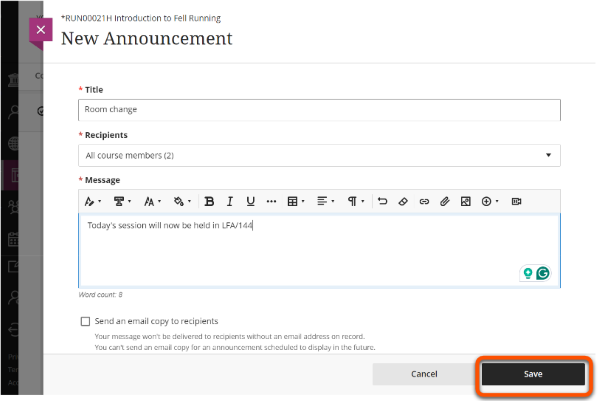
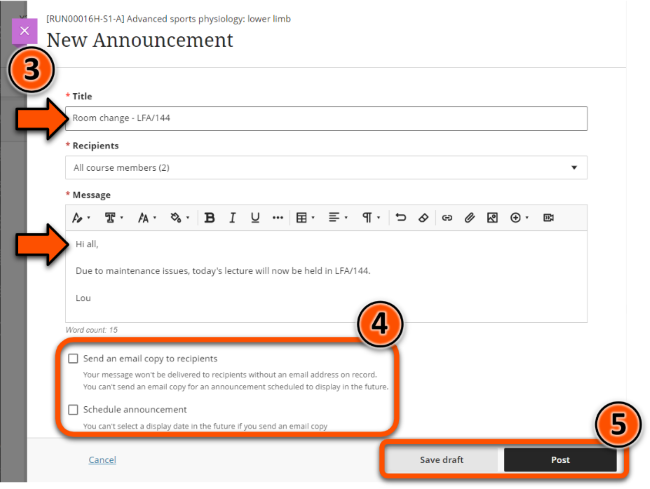
Announcements update for 93 update

Changed region(s): [[0.0, 0.0, 1.0, 1.0], [0.84, 0.419, 0.87, 0.4489]]

diff --git a/docs/ultra/announcements.md b/docs/ultra/announcements.md
@@ -44,35 +44,17 @@ Announcements are sent to all enrolled users (including staff). To send targeted
 2. At the **top right corner** of the Course Announcement page, click the **plus icon** to create an announcement.
 <br> ![Decorative](images/announcement-plus.png)
 3. On the **New Announcement** page, enter a descriptive title and the message text of your announcement. You can use the toolbar to format text, embed multimedia, and attach files (but remember that any module content included must also be added to the site itself).
-<br> ![Decorative](images/announcement-edit.png)
-4. To display an announcement at specific times, click **Schedule Announcement** then set Show on/Hide on dates.
-<br> ![Schedule announcement](images/announcement-schedule.png "Schedule")  
-5. You can use **Send an email copy to recipients** for critical announcements (e.g. changes of exam schedule). Students will receive emails at the address associated with their VLE account, even if they don’t log into the course. See [What emails do announcements generate?](../ultra/announcements.md/#what-emails-do-announcements-generate) below for more details.
-<br> ![Decorative](images/announcement-send-email.png)
-
-    !!! Tip
-
-        It is not currently possible to send an email copy of scheduled announcements.
-
-6. Click **Save**. Your announcement is saved as a draft on your Course Announcements page.
+4. Optional features: **Send an email copy** (See [What emails do announcements generate?](../ultra/announcements.md/#what-emails-do-announcements-generate) below for more details), or **Schedule annoucement** to automatically post later. [Note: a future update will allow both options to be chosen]
+5. Click **Post** to send immediately, or  **Save draft** to review later via the Announcments panel.
 <br> ![Decorative](images/announcement-save.png)
-7. To post your announcement immediately, select **Post Now**. If you scheduled your announcement to show on a future date, Ultra will automatically post the announcement at the scheduled time. Note: if the site is not open for students, the Post Now button will be greyed out.
-<br> ![Decorative](images/announcement-post.png)
-
-You can also watch Blackboard Help's guide to creating Announcements: 
-<iframe width="560" height="315" src="https://www.youtube.com/embed/h5IrqfVswb0" title="YouTube video Create Announcements in the Ultra Course View" frameborder="0" allow="accelerometer; autoplay; clipboard-write; encrypted-media; gyroscope; picture-in-picture" allowfullscreen></iframe>
-[Create Announcements in the Ultra Course View - Bb Help [YouTube]](https://www.youtube.com/watch?v=h5IrqfVswb0&t=)
 
 ## Edit, copy or delete an announcement
 
-1. Find the announcement you want to edit, copy or delete. On the right, click the **three dots** > **Edit/Copy/Delete.**
-
-    ![Decorative](images/announcement-edit-copy-delete.png)
-
-!!! Warning
-
-     This feature only works before you 'post' your announcement. Once 'posted', the announcement can't be edited to then send an email, a new copy of the announcement must be made.
-
+1. Select **Announcements** in the top navigation menu.
+<br>![Decorative](images/announcement-nav.png)
+2. Find the announcement you want to edit, copy or delete. On the right, click the **three dots** > **Edit/Copy/Delete.**
+<br>![Decorative](images/announcement-edit-copy-delete.png)
+3. If editing, follow steps 3-5 above to make your edits.
 
 ## What emails do announcements generate?
 The Announcement tool on Ultra VLE sites can email out the announcement in several different ways to different users, depending on a number of factors. See [our summary guidance on Announcements Emails](https://docs.google.com/document/d/1FAmb1tOh7zPL930c7f3_kWBYCCtXXIqTpKx4e3K57KA/edit?usp=sharing) for details, and key recommendations/ tips for tasks such as: 
